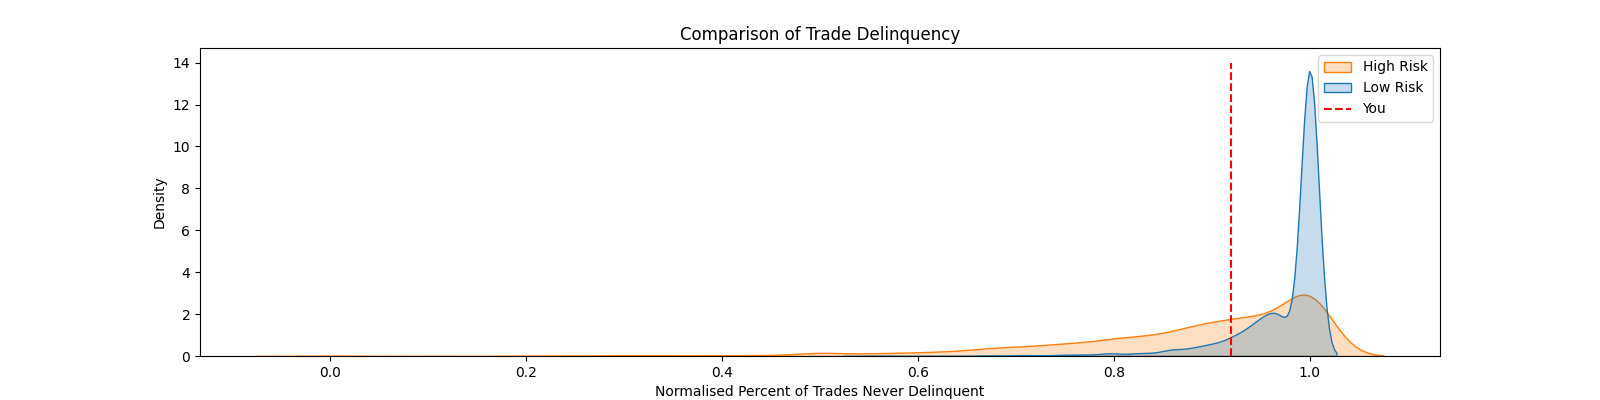
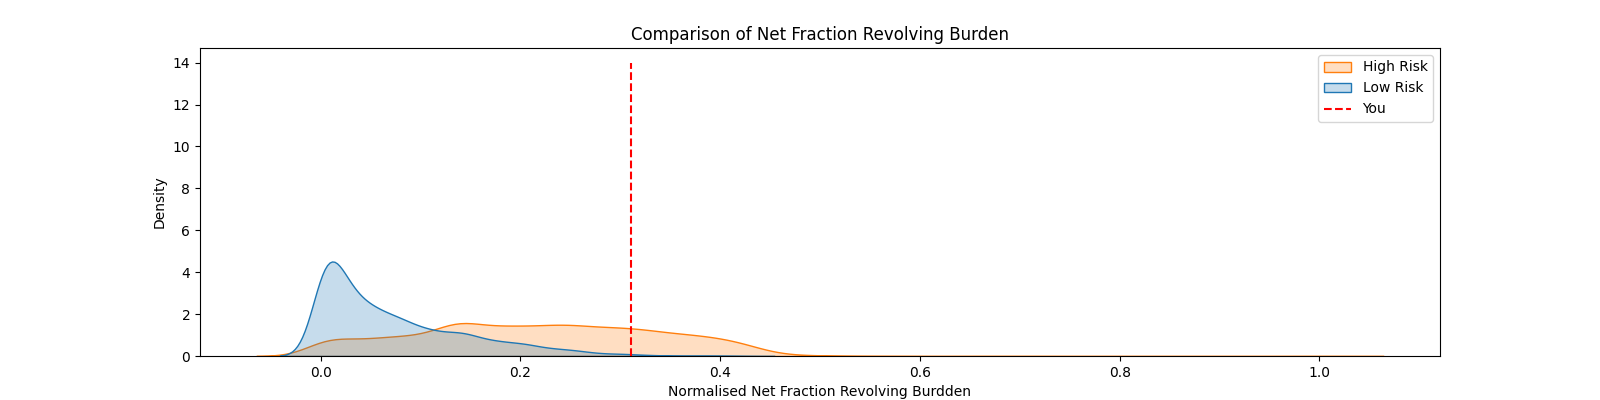
Presentation Version

Changed region(s): [[0.1562, 0.18, 0.875, 0.99], [0.4062, 0.06, 0.625, 0.12]]

diff --git a/Flask_App/templates/info.html b/Flask_App/templates/info.html
@@ -28,15 +28,15 @@
 <p style="color: #FFFFFF; font-family: 'Courier New', Courier, monospace;"> The following visuals are based on important factors that have influenced the model's decision.</p>
 <p style="color: #FFFFFF; font-family: 'Courier New', Courier, monospace;"> You can compare your information to the distribution of attributes separated by the model's prediction.</p>
 
-<img src="{{ url_for('static', filename='external_risk_estimate.png') }}" alt="Sigmoid Plot" style="width: 80%; background-color: #3D3983;">
+<img src="{{ url_for('static', filename='external_risk_estimate.png') }}" alt="Sigmoid Plot" style="width: 85%; background-color: #3D3983;">
 <p style="color: #FFFFFF; font-family: 'Courier New', Courier, monospace;">This feature compares your credit score to others in the model.</p>
 <div></div>
 <div></div>
-<img src="{{ url_for('static', filename='num_trades.png') }}" alt="Sigmoid Plot" style="width: 80%; background-color: #3D3983;">
+<img src="{{ url_for('static', filename='num_trades.png') }}" alt="Sigmoid Plot" style="width: 85%; background-color: #3D3983;">
 <p style="color: #FFFFFF; font-family: 'Courier New', Courier, monospace;">This feature compares how many trades you have executed compared to others.</p>
 <div></div>
 <div></div>
-<img src="{{ url_for('static', filename='percent_delinquency.png') }}" alt="Sigmoid Plot" style="width: 80%; background-color: #3D3983;">
+<img src="{{ url_for('static', filename='percent_delinquency.png') }}" alt="Sigmoid Plot" style="width: 85%; background-color: #3D3983;">
 <p style="color: #FFFFFF; font-family: 'Courier New', Courier, monospace;">This feature compares the percentage of delinquent trades you have made.</p>
 <div></div>
 <div></div>

diff --git a/Flask_App/app.py b/Flask_App/app.py
@@ -175,11 +175,11 @@ def two_chart():
         plt.show()
         plt.clf()
         labels = ['High Risk', 'Low Risk', 'You']
-        sns.kdeplot(df, x = 'PercentTradesNeverDelq', hue = 'Category', fill = True)
-        plt.vlines(x = comp['PercentTradesNeverDelq'], ymin=0, ymax=14, color = 'red', label = 'You', linestyles=['dashed'])
+        sns.kdeplot(df, x = 'NetFractionRevolvingBurden', hue = 'Category', fill = True)
+        plt.vlines(x = comp['NetFractionRevolvingBurden'], ymin=0, ymax=14, color = 'red', label = 'You', linestyles=['dashed'])
         plt.legend(labels = labels)
-        plt.xlabel('Normalised Percent of Trades Never Delinquent')
-        plt.title('Comparison of Trade Delinquency')
+        plt.xlabel('Normalised Net Fraction Revolving Burdden')
+        plt.title('Comparison of Net Fraction Revolving Burden')
         plt.savefig('./Flask_App/static/percent_delinquency.png')
         plt.clf()
         ax = plt.subplot()
